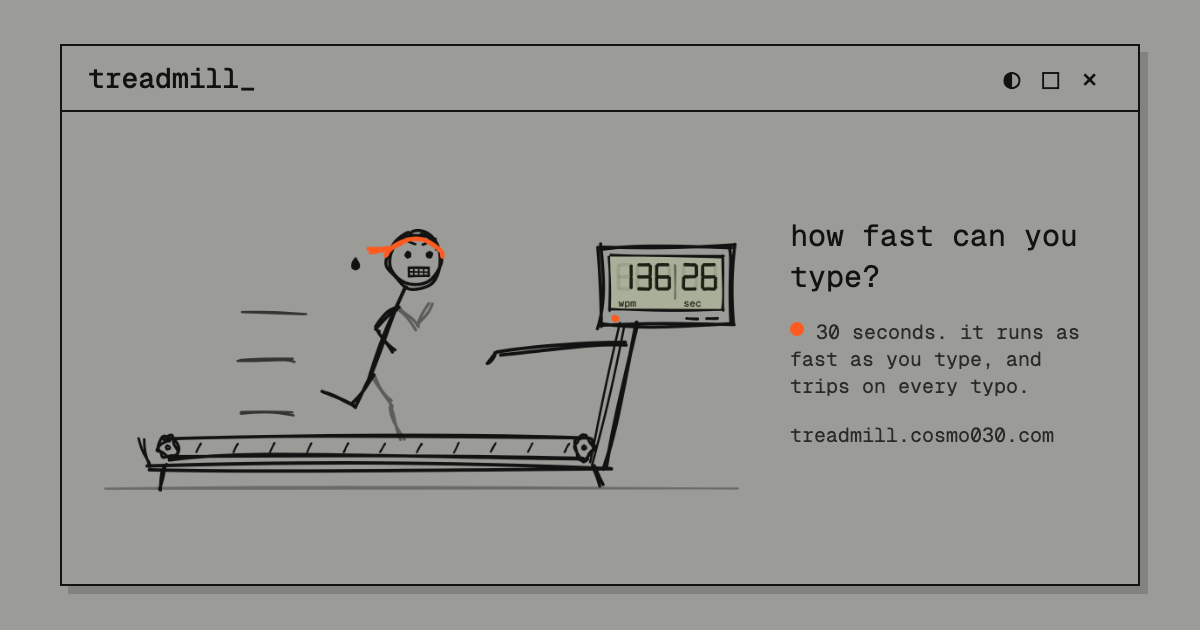
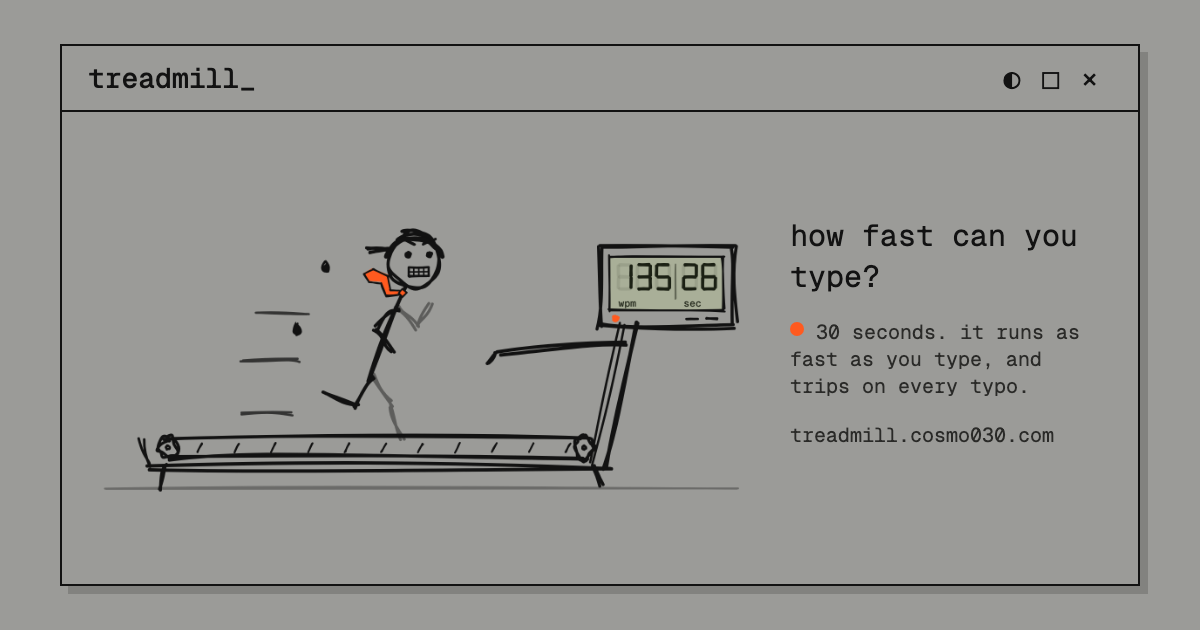
Show the tie in the README GIF and the share image

Changed region(s): [[0.4933, 0.3921, 0.6167, 0.5429], [0.2775, 0.3619, 0.37, 0.5127], [0.2775, 0.6333, 0.3083, 0.6635]]

diff --git a/index.html b/index.html
@@ -17,7 +17,7 @@
     <meta property="og:image" content="https://treadmill.cosmo030.com/og.png" />
     <meta property="og:image:width" content="1200" />
     <meta property="og:image:height" content="630" />
-    <meta property="og:image:alt" content="A hand-drawn stick figure sprinting on a treadmill with a little LCD console showing its speed" />
+    <meta property="og:image:alt" content="A hand-drawn stick figure in an orange tie sprinting on a treadmill, with a little LCD console showing his speed" />
     <meta name="twitter:card" content="summary_large_image" />
     <meta name="twitter:title" content="treadmill · how fast can you type?" />
     <meta name="twitter:description" content="A 30-second typing test. The stick figure runs as fast as you type, and trips over every typo." />

diff --git a/README.md b/README.md
@@ -2,7 +2,7 @@
 
 A 30-second typing test where a scribbly stick figure runs on a treadmill as fast as you type, and trips over every typo. Part of [cosmo030.com](https://cosmo030.com).
 
-<img src="docs/runner.gif" alt="The hand-drawn stick figure walking, then jogging, running and sprinting with a sweatband as the typing speeds up, then stumbling over a burst of typos" width="480">
+<img src="docs/runner.gif" alt="The hand-drawn stick figure in his orange tie walking, then jogging, running and sprinting as the typing speeds up, the tie flapping behind him, then stumbling over a burst of typos" width="480">
 
 Play it at [treadmill.cosmo030.com](https://treadmill.cosmo030.com). Companion game: [hangman](https://hangman.cosmo030.com).
 
@@ -11,6 +11,7 @@ Play it at [treadmill.cosmo030.com](https://treadmill.cosmo030.com). Companion g
 - **The timer starts on your first letter** and runs for 30 seconds. Tab or Enter (or the restart button) starts over with fresh words at any time.
 - **The runner's speed follows your live WPM**: standing (and blinking) at 0, walking under 30, jogging to 60, running and leaning forward to 90, sprinting with a sweatband and speed lines above that. The gait blends smoothly between speeds, but the frames step through six keyframes like a flipbook.
 - **Every wrong letter is a stumble.** The figure pitches forward, flails, and catches itself on an overshoot spring (~350 ms). Three typos within 1.5 s make a bigger stumble with a panicked face. A new typo restarts the stumble instead of stacking.
+- **The tie** is the mascot's signature and the only coloured thing on him, in cosmo030.com's orange (`#ff5a1f`, `--accent`). It's a chain of four points simulated with verlet physics (gravity, drag, wind, a flutter that travels down it), pinned at his collar and drawn through those points with Rough.js. It sways when he stands, trails and flaps while he walks and runs (faster with his speed), flips over his shoulder and streams behind at a sprint, whips into his face when he trips, hangs limp while he pants and swings up with his arms when he wins. With reduced motion it just hangs and tilts with his pose.
 - **At the end** the treadmill winds down and the figure bends over panting, or throws its arms up if you set a new personal best.
 - Drawn with [Rough.js](https://roughjs.com) on a `<canvas>`, redrawn about 10 times a second with cycling seeds so the lines "boil", like [hangman](https://hangman.cosmo030.com). With `prefers-reduced-motion`, the boil, shaking and dust are gone and the stride is slow and simple; the console and running vs standing still show.
 
@@ -52,6 +53,7 @@ src/
   words.ts     300 common words + no-repeat random stream
   poses.ts     run-cycle keyframes, speed → gait, forward kinematics
   runner.ts    Rough.js drawing: treadmill, LCD console, figure, stumbles
+  tie.ts       the tie's verlet physics (chain, forces, reduced-motion pose)
   spring.ts    overshoot spring (ported from hangman)
   results.ts   personal best + share text
   types.ts     shared types
